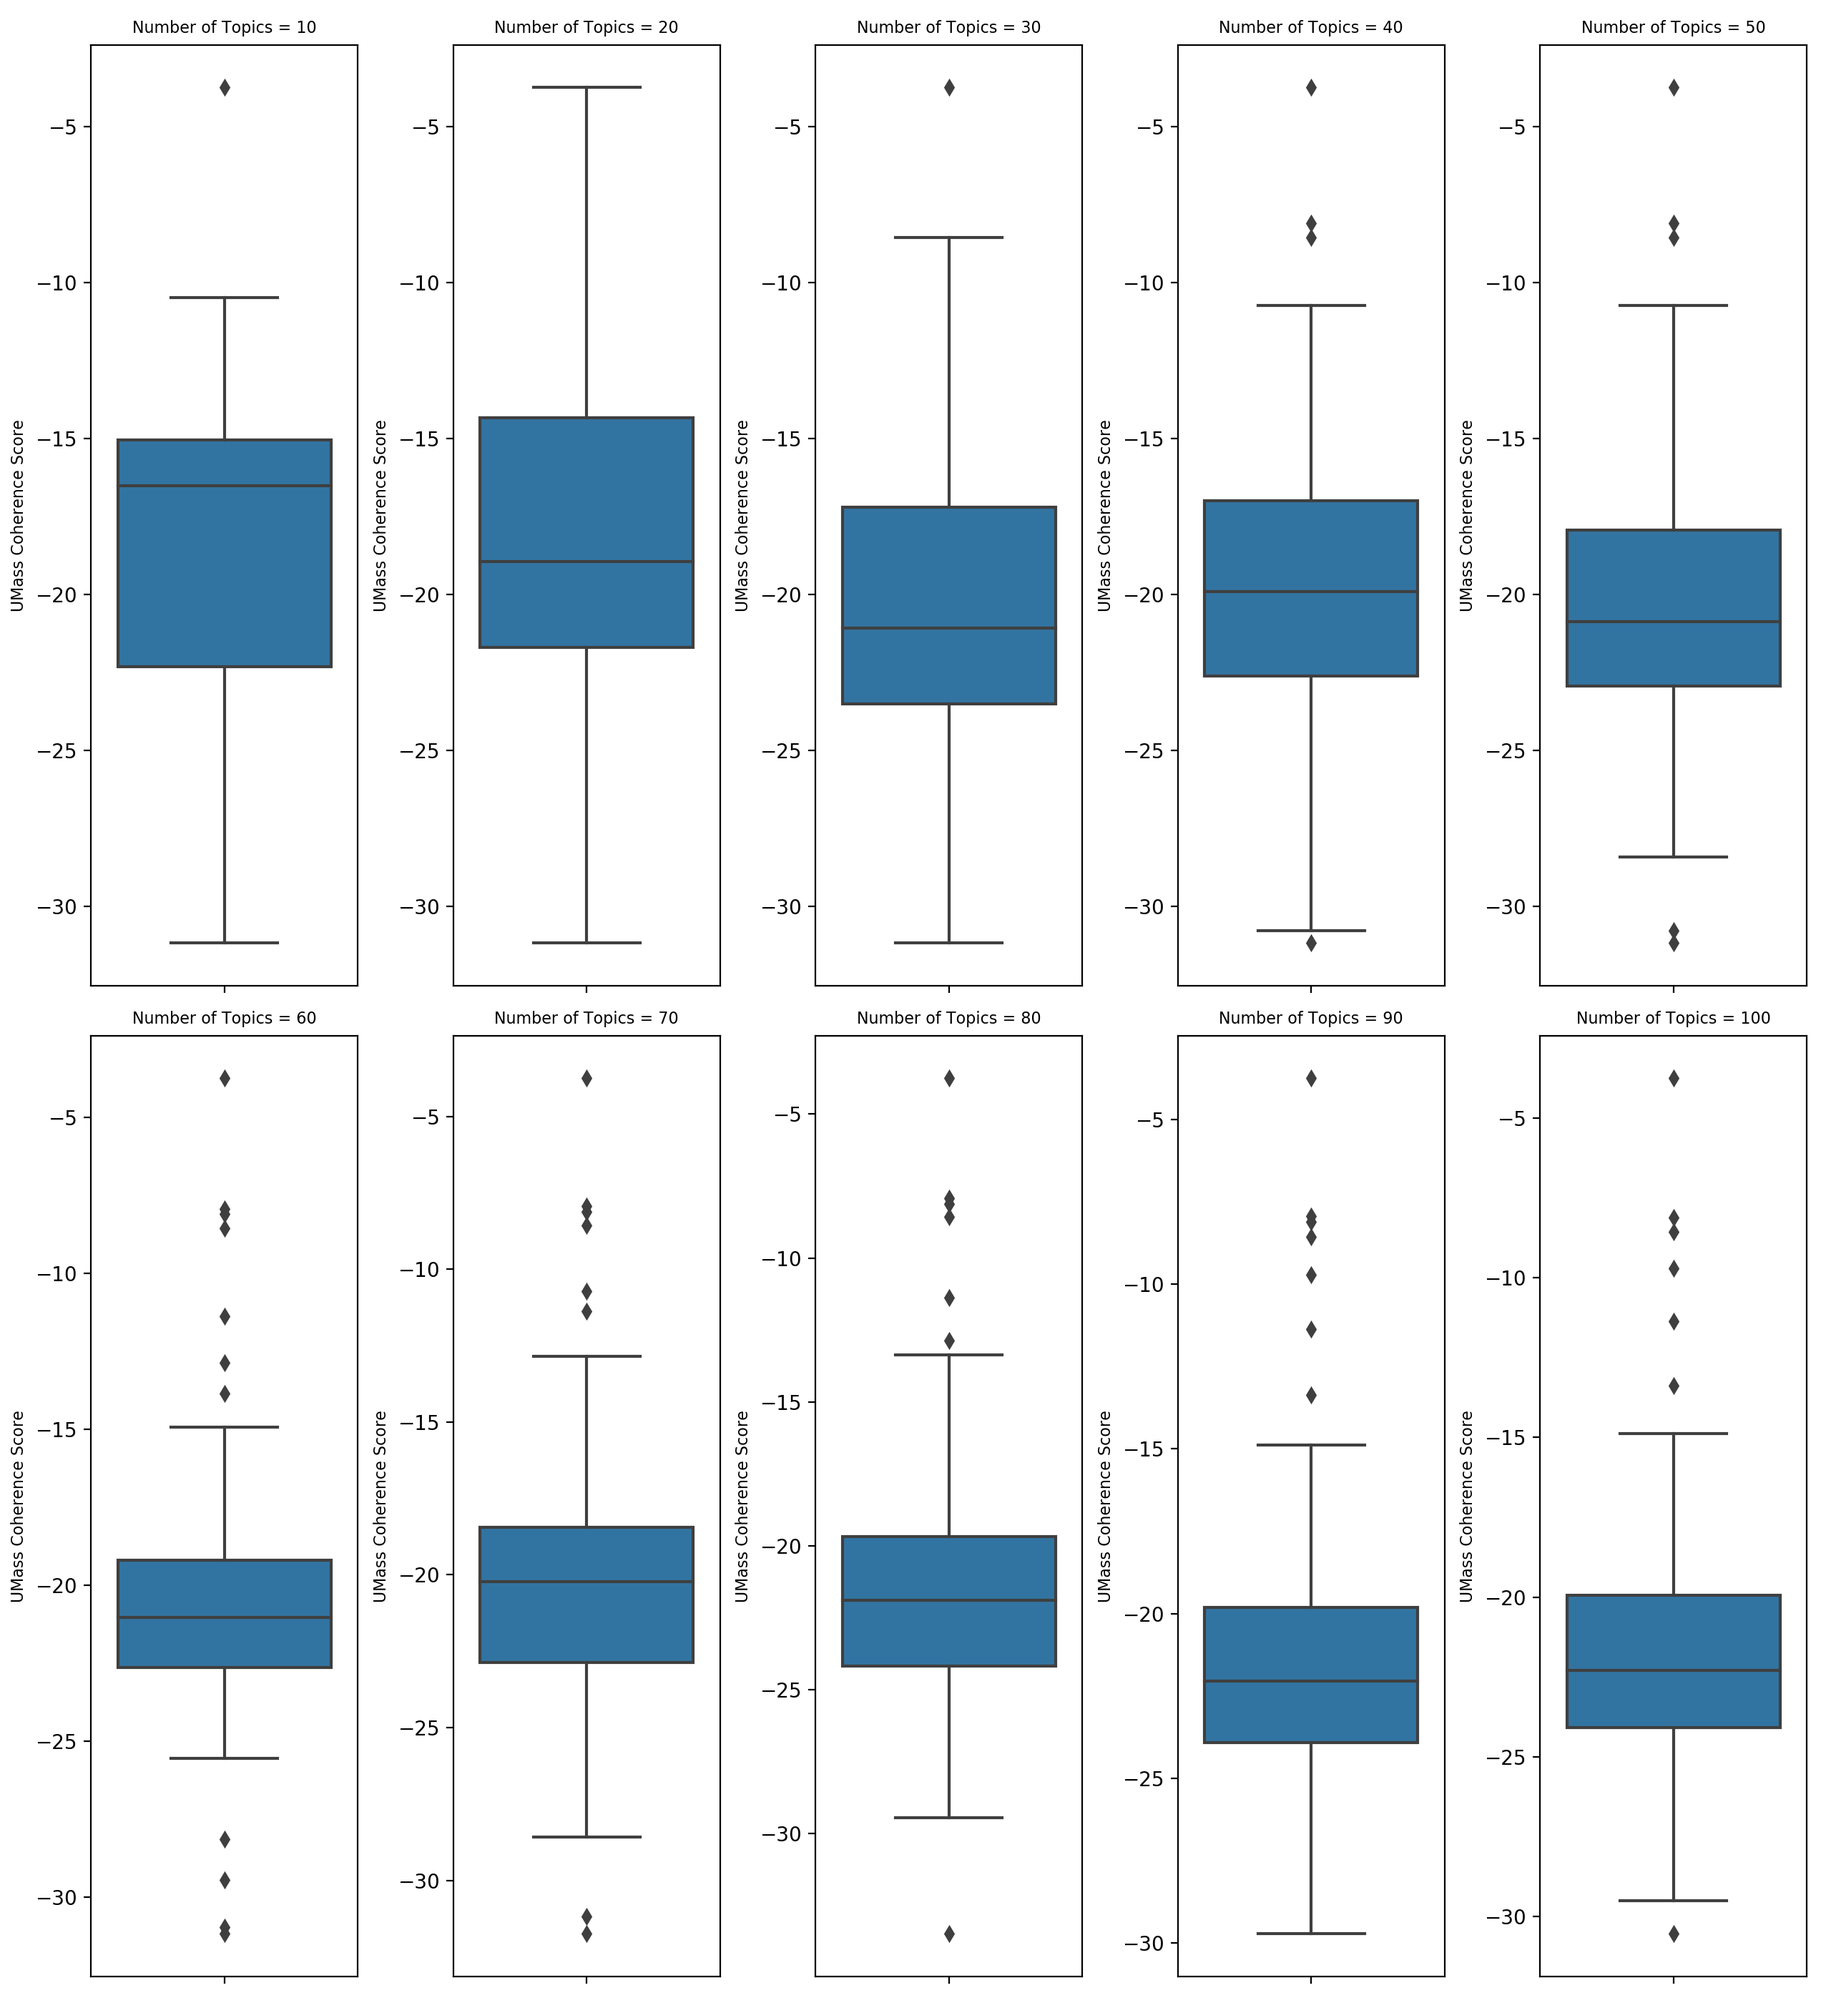
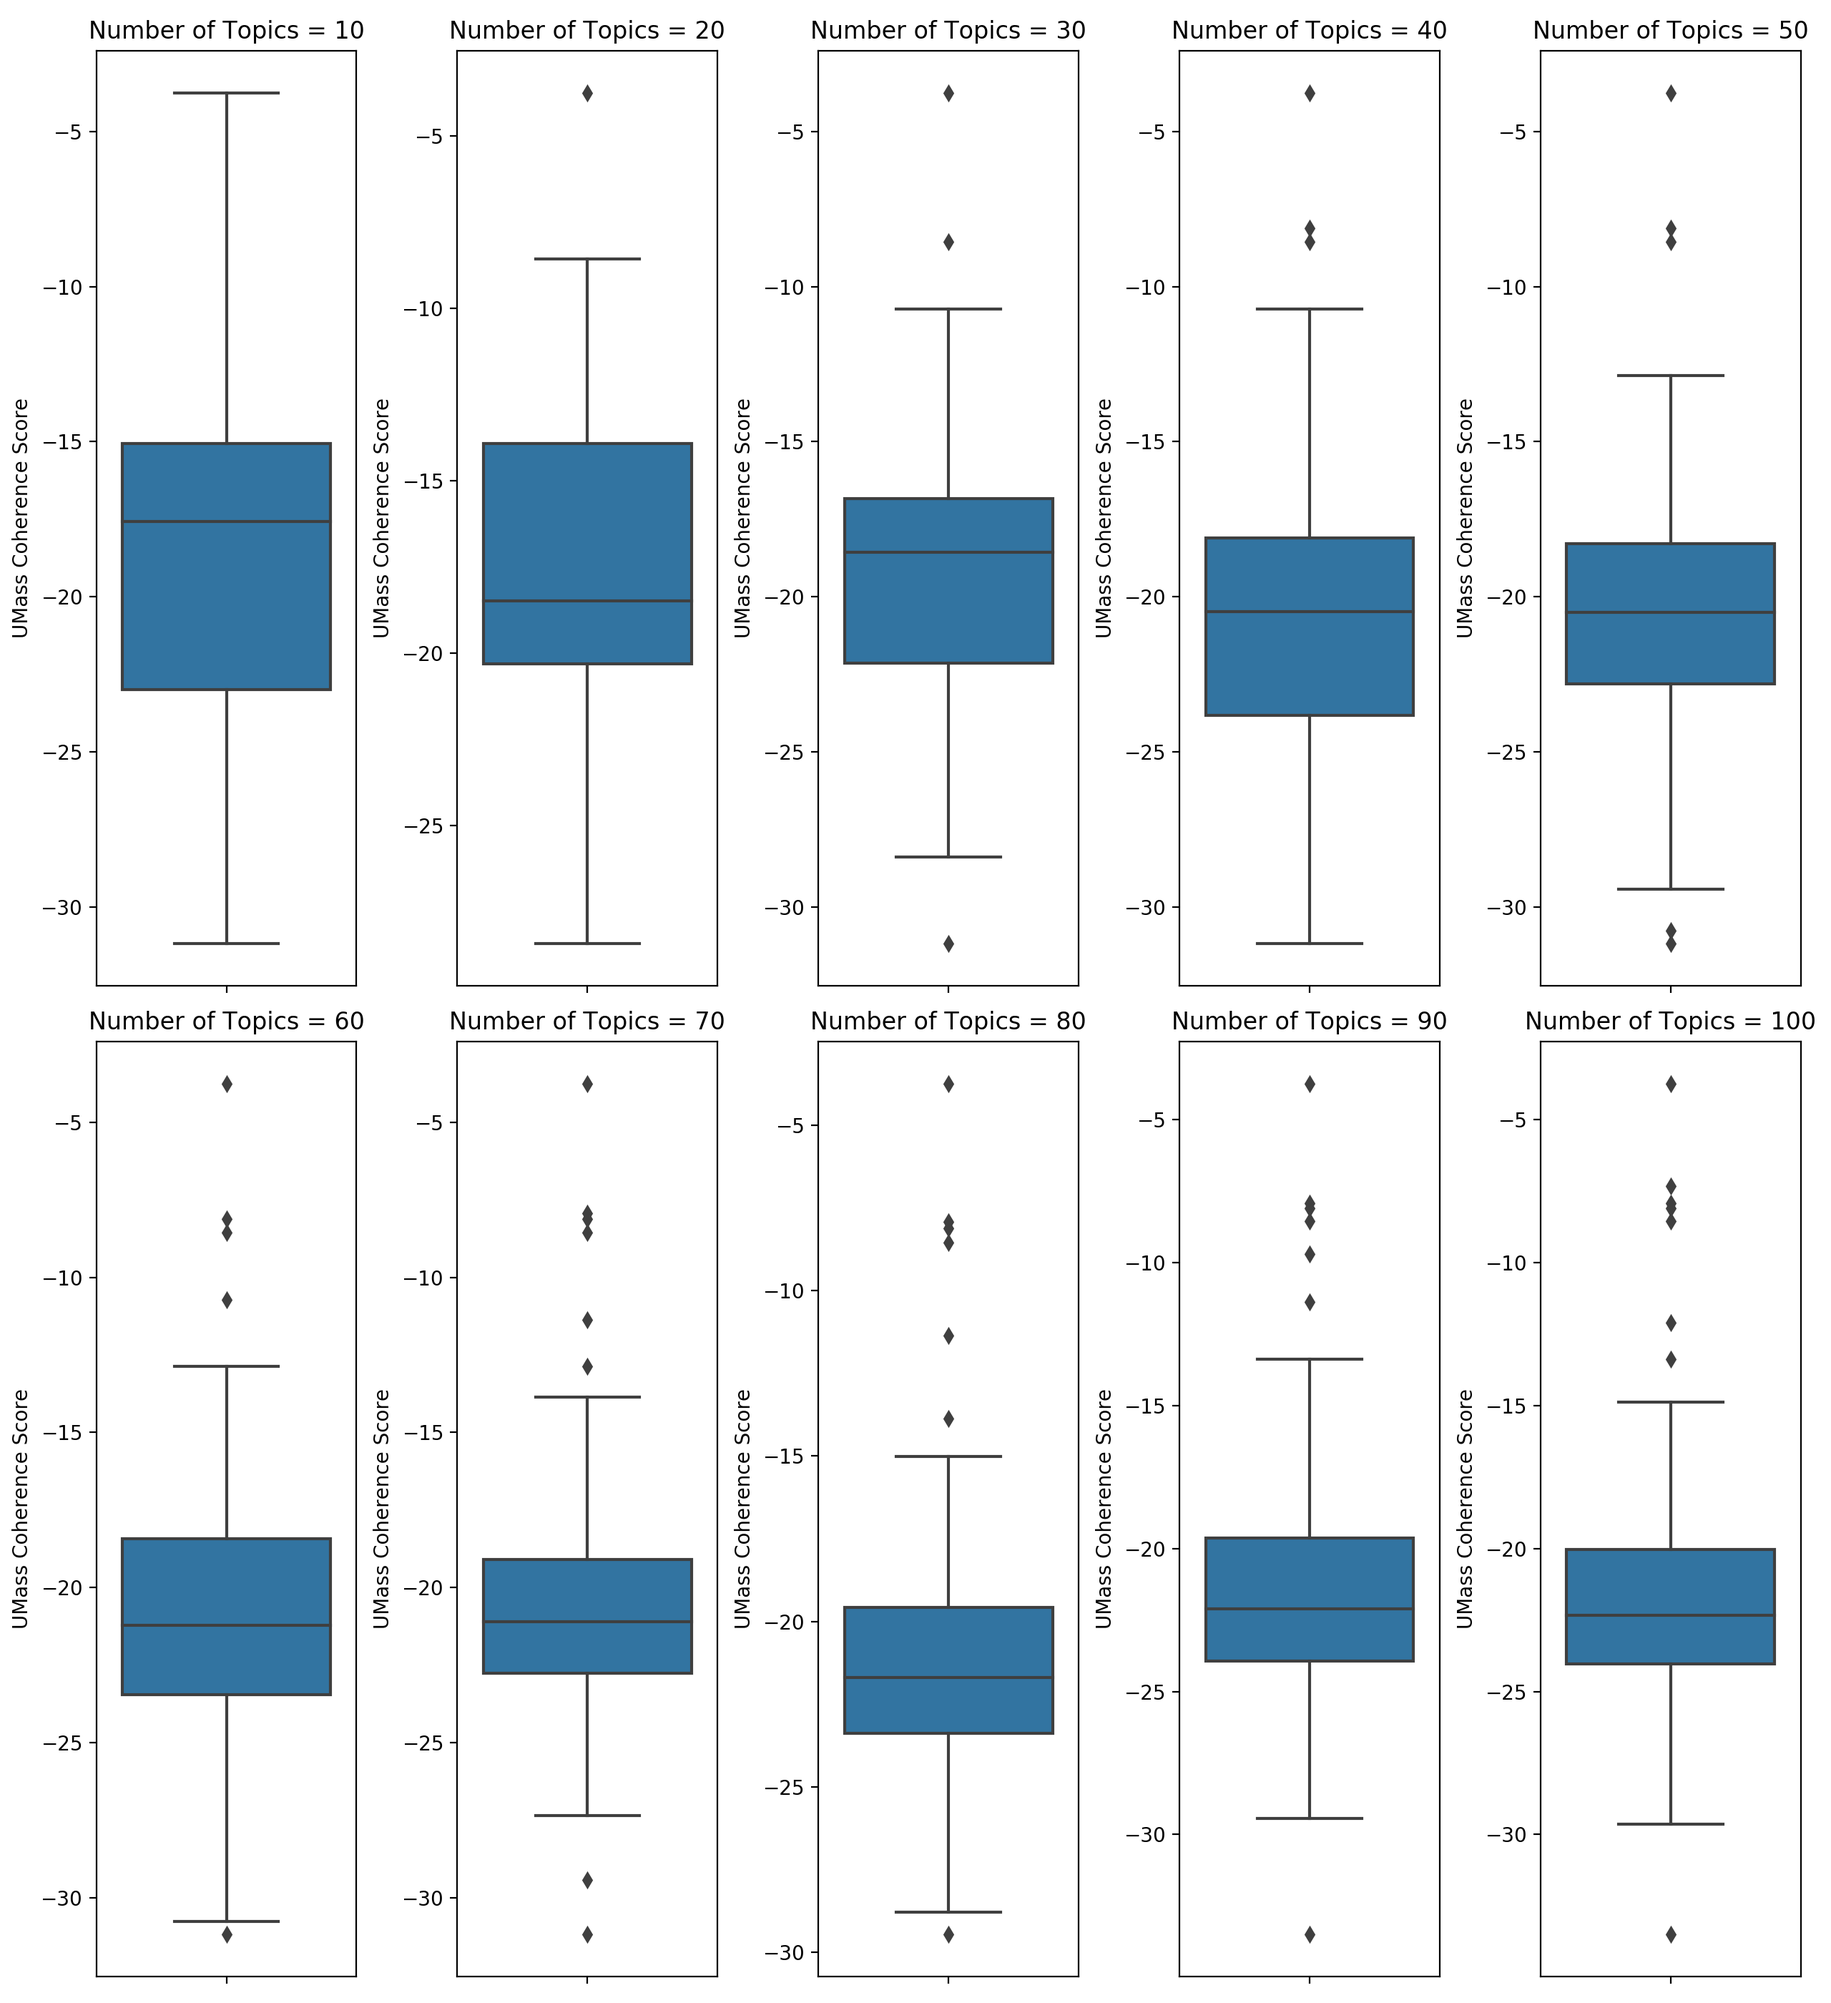
fixed font size of subplot title text

diff --git a/src/evaluate_nmf.py b/src/evaluate_nmf.py
@@ -246,8 +246,8 @@ def umass_box_and_whiskers_for_diff_num_topics(tweet_corpus, num_topics_list,
     i = 1
     for num_topics, scores in zip(num_topics_list,scores_list):
         plt.subplot(2,5,i)
-        plt.ylabel('UMass Coherence Score', size=8)
-        plt.title('Number of Topics = {}'.format(num_topics), size=8)
+        plt.ylabel('UMass Coherence Score', size=10)
+        plt.title('Number of Topics = {}'.format(num_topics), size=12)
         sns.boxplot(y=scores)
         i+=1
     plt.tight_layout()
@@ -305,19 +305,19 @@ if __name__ == '__main__':
 
 
     # Plot bar chart of topic sizes
-    ideal_num_topics = 50 # determined from coherence score boxplots
-    nmf_mod = BuildNMF(tc.hashtag_aggregated_corpus, num_topics=ideal_num_topics)
-    nmf = nmf_mod.fit()
-    get_bar_chart_of_topic_sizes(nmf_mod, 'Sizes of Tweet Topics',
-                                'Number of Tweets in Topic',
-                                savepath='../plots/tweet_topic_sizes.png')
+    # ideal_num_topics = 50 # determined from coherence score boxplots
+    # nmf_mod = BuildNMF(tc.hashtag_aggregated_corpus, num_topics=ideal_num_topics)
+    # nmf = nmf_mod.fit()
+    # get_bar_chart_of_topic_sizes(nmf_mod, 'Sizes of Tweet Topics',
+    #                             'Number of Tweets in Topic',
+    #                             savepath='../plots/tweet_topic_sizes.png')
 
 
     # Box and whiskers of topic coherences for different numbers of topics
-    # num_topics_list = [10, 20, 30, 40, 50, 60, 70, 80, 90, 100]
-    # corp = tc.hashtag_aggregated_corpus
-    # score = umass_box_and_whiskers_for_diff_num_topics(corp, num_topics_list,
-    #      savepath='../plots/coherence_score_boxplots_for_diff_num_topics.png')
+    num_topics_list = [10, 20, 30, 40, 50, 60, 70, 80, 90, 100]
+    corp = tc.hashtag_aggregated_corpus
+    score = umass_box_and_whiskers_for_diff_num_topics(corp, num_topics_list,
+         savepath='../plots/coherence_score_boxplots_for_diff_num_topics2.png')
 
 
 
